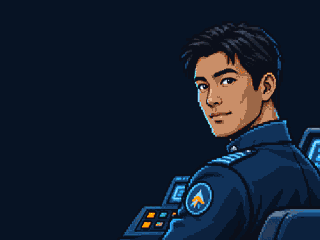
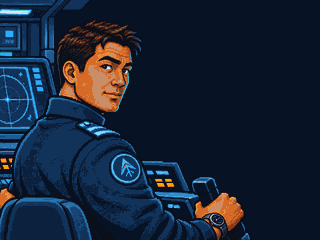
Crew scenes: Marcus (new), Chief Doyle, Lt. Washington; text box placements right-short and bottom
Claude-Session: https://claude.ai/code/session_01QsU1qWh9Lm4CoQ2smq7FHb

diff --git a/tablet/js/art.js b/tablet/js/art.js
@@ -29,7 +29,7 @@ export function artImg(name) {
 // Like the rooms: the owner's original (smooth) and a 64x64 palette copy (Display > Pictures > Retro). Keyed by crew id (data/contacts.json).
 export const PORTRAITS = {
   communications: { original: 'retro/assets/crew/communications_original.jpg', retro: 'retro/assets/crew/communications.png' },   // Nicole Brooks
-  ...Object.fromEntries(['helm', 'executiveOfficer', 'science'].map((id) => [id, { original: `retro/assets/crew/${id}_original.jpg`, retro: `retro/assets/crew/${id}.png` }])),   // Marcus, ARIA, Dr. Patel (tools/crew_art.py)
+  ...Object.fromEntries(['helm', 'executiveOfficer', 'science', 'engineering', 'security'].map((id) => [id, { original: `retro/assets/crew/${id}_original.jpg`, retro: `retro/assets/crew/${id}.png` }])),   // Marcus, ARIA, Dr. Patel, Chief Doyle, Lt. Washington (tools/crew_art.py)
 };
 /** One <img> per picture and class, made once and reused (it follows the Pictures setting; no new listener on every redraw). */
 const pics = new Map();
@@ -50,9 +50,10 @@ export const portrait = (id, cls = 'portrait') => pic(PORTRAITS, id, cls);
 // fills the 4:3 box and a text box on the empty side carries what they say and the choices. Original and a 320x240 palette copy.
 export const SCENES = {
   communications: { original: 'retro/assets/crew/communications_scene_original.jpg', retro: 'retro/assets/crew/communications_scene.png' },   // Nicole at the comms station (a stand-in until the owner has the over-the-shoulder pose)
-  ...Object.fromEntries(['helm', 'executiveOfficer', 'science'].map((id) => [id, { original: `retro/assets/crew/${id}_scene_original.jpg`, retro: `retro/assets/crew/${id}_scene.png` }])),   // the owner's pictures, 2026-11-27
+  ...Object.fromEntries(['helm', 'executiveOfficer', 'science', 'engineering', 'security'].map((id) => [id, { original: `retro/assets/crew/${id}_scene_original.jpg`, retro: `retro/assets/crew/${id}_scene.png` }])),   // the owner's pictures, 2026-11-27
 };
-/** Where the text box goes on each scene picture: on the empty side. 'right' (default), 'left', or 'side-left' (narrow, beside a standing figure). */
-export const SCENE_BOX = { helm: 'left', science: 'side-left' };
+/** Where the text box goes on each scene picture: on the empty side. 'right' (default), 'left', 'side-left' (narrow, beside a standing figure),
+ *  'right-short' (right, stopping above a hand at the bottom) or 'bottom' (across the lower third, when the figure fills the middle). */
+export const SCENE_BOX = { helm: 'right-short', science: 'side-left', security: 'left', engineering: 'bottom' };
 /** A crew member's scene picture (or null). */
 export const scenePic = (id, cls = 'rd-pic') => pic(SCENES, id, cls);

diff --git a/tablet/tablet.css b/tablet/tablet.css
@@ -1066,3 +1066,9 @@ body.on-bridge .dock-status { background: rgba(3,14,24,.82); border-radius: 0 0 
 .keycap { pointer-events: none; } .keycap-t { width: 40px; height: 28px; display: flex; align-items: center; justify-content: center; font: 900 30px/1 var(--mono); color: #1a1204; }
 .tp-lamp { position: absolute; pointer-events: none; border-radius: 3px; background: transparent; }
 .tp-lamp.on { background: #64ffda; box-shadow: 0 0 10px #64ffda; }
+
+/* dialogue box placements for the crew scenes of 2026-11-27 (SCENE_BOX in art.js) */
+.rd.box-right-short .rd-box { bottom: 30%; }   /* Marcus: clear of his hand on the yoke */
+.rd.box-bottom .rd-box { left: 3%; right: 3%; top: 60%; bottom: 3%; display: grid; grid-template-columns: 1fr 1fr; grid-auto-rows: min-content; column-gap: 1.4rem; row-gap: 0; align-content: start; background: rgba(2, 10, 18, 0.9); }   /* Chief Doyle: across the lower third, the choices in two columns */
+.rd.box-bottom .rd-box > * { grid-column: 1 / -1; } .rd.box-bottom .rd-box > .comm-line { grid-column: auto; min-height: 2.2rem; }   /* the choices in two columns */
+.rd.box-bottom .rd-box > .comm-chips { display: grid; grid-template-columns: 1fr 1fr; column-gap: 1.4rem; }

diff --git a/tools/crew_art.py b/tools/crew_art.py
@@ -7,7 +7,7 @@ import os, sys, json
 from PIL import Image
 ROOT = os.path.dirname(os.path.dirname(os.path.abspath(__file__)))
 SRC, OUT = os.path.join(ROOT, 'art_src', 'crew'), os.path.join(ROOT, 'tablet', 'retro', 'assets', 'crew')
-FACE = { 'helm': (800, 80, 540), 'executiveOfficer': (60, 120, 720), 'science': (560, 20, 300) }
+FACE = { 'helm': (330, 110, 400), 'executiveOfficer': (60, 120, 720), 'science': (560, 20, 300), 'engineering': (560, 60, 380), 'security': (920, 40, 360) }   # helm: the over-the-shoulder picture of 2026-11-27 (the first one is helm_scene_v1.png)
 def snap(img):
     d = json.load(open(os.path.join(ROOT, 'data', 'palette.json'))); c = d if isinstance(d, list) else d.get('colors', d)
     pal = [tuple(int(h[i:i + 2], 16) for i in (1, 3, 5)) for h in c]; flat = [v for p in pal for v in p]; flat += flat[:3] * (256 - len(pal))

diff --git a/docs/HANDOFF.md b/docs/HANDOFF.md
@@ -1,6 +1,6 @@
 # Handoff (read this first when a session starts; update it before parking)
 
-Last updated: 2026-11-27. Branch to work on: `tablet`. Repo: NickWest27/AquaNova (GitHub Pages path `/AquaNova/`). Last change: desk pads are banks of five (range buttons gone, the yellow keys do range; SNR contact buttons Scan, Probe, Clear moved to the right pad, Investigate renamed Probe; the Sensors station keeps its own − RANGE +). Open: the left pad still has six pages (TAC is a stub). Before that bridge desk (owner, 2026-11-27): the three desk pads are warped to the slant of their holes; DSP moved from the right pad to the round trackpad (lamp lit while on); the two yellow keys left of the centre display are RANGE + / − with the signs printed on; the overhead panel carries the status (position, date, time, BAT) and the screen-edge strip is hidden on the bridge; before that sound board in the PED (Settings > Sound > Sound board opens it full screen over the game; the buttons live in `tablet/js/soundboardKit.js`, shared with the stand-alone page `tablet/soundboard.html`, published at `.../AquaNova/tablet/tablet/soundboard.html`: note the double `tablet`); before that sound board for the owner (every sound in sfx.js and the theme on a button, rename and Copy names); before that NEW BRIDGE FRAME (the owner's picture of 2026-11-27, 1024x765, holes cut from its painted checkerboard; source `art_src/rooms/bridge_original.png`, colour-matched by `tools/even_palette.py`, Retro copy snapped from it). Marcus at the centre helm (tap him to talk; his left monitor opens the Helm station; his two small monitors show heading/speed and depth/floor), Nicole left, Alex right. The three desk pads are one row each: HLM's depth and cruise buttons moved to the right pad. The status strip moves to the top on the bridge (`body.on-bridge`). Walkway exit: bottom-left corner. Before that: 16-bit sound effects library (`tablet/js/sfx.js`, 32 sounds; previews `docs/audio/sfx/`, reel `docs/audio/sfx_reel.mp3` + `.txt`, rendered by `tools/render_sfx.py`; Effects slider in PED Settings). Wired: general alarm, impact/crash, fire and flooding alarms, super cruise power-up and engage, emergency blow, sonar sweep ping, doors between rooms, the engine room loop, radio squelch when the communicator opens; before that short crew lines show as notices on the bridge's overhead console (two lines, whole panel); ARIA's hints wait at least a minute; bigger overhead and nav log text; the vertical profile uses the nav screen's colours (warning yellow and red kept); before that every crew message opens the dialogue (hints, reports, objective lines); only the reply to a button press (`tell()`) and action ticks stay a short line at the foot of the screen (notify.js); before that main title "Beneath the Waves" (original, 16-bit style, `tablet/js/theme.js`; PED Settings > Play theme; render with `tools/render_theme.py` to `docs/audio/aqua_nova_theme.mp3`); before that the communicator never replaces what the Captain is reading: new lines wait behind "Continue" (crew.js readTo); before that fixed Restart from the beginning (a new game was no longer recognised because 'pick up the communicator' now starts as waiting; `commsLocked` in app.js; test `tools/restart_test.py`); before that no discovery notes in the logbook (arrivals to the PED Journal, records to PED Findings); before that one task at a time (objective status 'waiting' until the step before is done; follow-on missions start after a short saved pause; the PED shows done steps, the current one and how many are to come); super cruise spools up for 8 s and eases in and out, any other power setting drops it; Route editor Edit button and a degrees-and-minutes read-back in the waypoint dialog; the trials escort (OERA Seaward, CGC Vigilant) on AIS; the 300 m depth is a certification step (story bible); before that route planner fix (trips over about 120 nm fell off the search grid and were reported as blocked: `route.js` now grows its cells on long trips; test in `tools/route_test.mjs`); the commissioning orders give the AO's centre point, not its corners; before that walkway A1, walkway AN-1 and medbay back to the colour-matched pictures (a pixel-art rebuild by filter looked smudged; they need redrawing to be as crisp as the launch bay); stray speckles removed from the Retro copies; BRIDGE sign on A1 drawn by the game; before that rooms open with the story and crew join the communicator when their room is visited (`rooms.js`, see `docs/COMMS_AND_PROGRESSION.md`); ARIA's bridge introduction; before that crew renamed (Lt. Andre Washington for security, Chief Engineer Ryan Doyle; see `docs/STORY_BIBLE.md`); the Captain's lines in the communicator are conversational (`SAY` in `stations/crew.js`); Call another station; Take me to my quarters removed; before that communicator menu tidied and First Contact completes on ARIA's introduction (see `docs/HELM_AND_ORDERS.md`); before that portraits and dialogue screens for Marcus, ARIA and Dr. Patel (`tools/crew_art.py`, sources in `art_src/crew/`; text box side per picture: `SCENE_BOX` in art.js); before that room pictures evened out to the Engineering picture's brightness and colour (`tools/even_palette.py`; the untouched originals are in `art_src/rooms/`, outside the served folders: a new room picture goes there first, then run the script, which also remakes the Retro copies); bigger crew tap areas on the bridge; before that the owner's testing list (below, all 18 items); before that the quarters wall screen cycles NAV, synthetic vision, sonar, WSKRs and ship status (`quartersScreen.js`, tap = next page, 10 s each; test `tools/quarters_screen_test.py`); pushing the trials for records with a risk of light damage (`trials.js`); story bible brought up to date; before that Sea Trials became the commissioning trip to the Trials AO (welcome letter in the logbook, commissioning orders by mail, Welcome to the AO mail; nav, eng and super cruise commissioned in steps; see the tutorial table in `docs/COMMS_AND_PROGRESSION.md`); before that the owner's welcome letter in the logbook; before that general alarm (ARIA order + engineering button; red lighting and frames; faster fire/flood response if sounded first; see `docs/ENGINEERING.md`); before that the Engineering room shows the ship's state (core glow amber/red, live console screens, red alarm for fire/flooding; see `docs/ENGINEERING.md`); before that the engineering computer; before that the 90s dialogue screen for Nicole; before that Nicole's portrait; before that walkway AN-1 and Engineering on the owner's pictures (every room is now 4:3); before that site survey (`survey.js`, Survey site on SONAR, Seabed survey missions) and the XO tends Remora before getting under way; before that Remora's tether parts past its length, the Tern fetches her (`tools/tether_test.py`); before that PED, communicator and corner buttons in the 4:3 box; before that Launch Bay as instruments, WSKRs have their own launch bays, standard target readout (`readout.js`), Full sweep 36 s; before that station pages are a 4:3 page (1024 x 768) scaled like the stage; before that pages fit the screen (`tools/fit_test.py`) and Sensors has SONAR and WSKRs only; before that contact tracking (detection chance, names belong to tracks, probable matches, signatures on file: `docs/CONTACT_TRACKING.md`); before that identified ships saved; before that one zoom direction everywhere ("+" zooms in) and round map zoom buttons; before that the bridge original picture with real transparent holes; before that the medbay on the owner's picture (after bridge, walkway A1, quarters, science lab, launch bay).
+Last updated: 2026-11-27. Branch to work on: `tablet`. Repo: NickWest27/AquaNova (GitHub Pages path `/AquaNova/`). Last change: new crew scene pictures (Marcus over the shoulder, replacing the first one, kept as `art_src/crew/helm_scene_v1.png`; Chief Doyle; Lt. Washington), made by `tools/crew_art.py`; text box per picture in `SCENE_BOX` (Marcus right but short of his hand, Washington left, Doyle across the bottom with the choices in two columns). Before that desk pads are banks of five (range buttons gone, the yellow keys do range; SNR contact buttons Scan, Probe, Clear moved to the right pad, Investigate renamed Probe; the Sensors station keeps its own − RANGE +). Open: the left pad still has six pages (TAC is a stub). Before that bridge desk (owner, 2026-11-27): the three desk pads are warped to the slant of their holes; DSP moved from the right pad to the round trackpad (lamp lit while on); the two yellow keys left of the centre display are RANGE + / − with the signs printed on; the overhead panel carries the status (position, date, time, BAT) and the screen-edge strip is hidden on the bridge; before that sound board in the PED (Settings > Sound > Sound board opens it full screen over the game; the buttons live in `tablet/js/soundboardKit.js`, shared with the stand-alone page `tablet/soundboard.html`, published at `.../AquaNova/tablet/tablet/soundboard.html`: note the double `tablet`); before that sound board for the owner (every sound in sfx.js and the theme on a button, rename and Copy names); before that NEW BRIDGE FRAME (the owner's picture of 2026-11-27, 1024x765, holes cut from its painted checkerboard; source `art_src/rooms/bridge_original.png`, colour-matched by `tools/even_palette.py`, Retro copy snapped from it). Marcus at the centre helm (tap him to talk; his left monitor opens the Helm station; his two small monitors show heading/speed and depth/floor), Nicole left, Alex right. The three desk pads are one row each: HLM's depth and cruise buttons moved to the right pad. The status strip moves to the top on the bridge (`body.on-bridge`). Walkway exit: bottom-left corner. Before that: 16-bit sound effects library (`tablet/js/sfx.js`, 32 sounds; previews `docs/audio/sfx/`, reel `docs/audio/sfx_reel.mp3` + `.txt`, rendered by `tools/render_sfx.py`; Effects slider in PED Settings). Wired: general alarm, impact/crash, fire and flooding alarms, super cruise power-up and engage, emergency blow, sonar sweep ping, doors between rooms, the engine room loop, radio squelch when the communicator opens; before that short crew lines show as notices on the bridge's overhead console (two lines, whole panel); ARIA's hints wait at least a minute; bigger overhead and nav log text; the vertical profile uses the nav screen's colours (warning yellow and red kept); before that every crew message opens the dialogue (hints, reports, objective lines); only the reply to a button press (`tell()`) and action ticks stay a short line at the foot of the screen (notify.js); before that main title "Beneath the Waves" (original, 16-bit style, `tablet/js/theme.js`; PED Settings > Play theme; render with `tools/render_theme.py` to `docs/audio/aqua_nova_theme.mp3`); before that the communicator never replaces what the Captain is reading: new lines wait behind "Continue" (crew.js readTo); before that fixed Restart from the beginning (a new game was no longer recognised because 'pick up the communicator' now starts as waiting; `commsLocked` in app.js; test `tools/restart_test.py`); before that no discovery notes in the logbook (arrivals to the PED Journal, records to PED Findings); before that one task at a time (objective status 'waiting' until the step before is done; follow-on missions start after a short saved pause; the PED shows done steps, the current one and how many are to come); super cruise spools up for 8 s and eases in and out, any other power setting drops it; Route editor Edit button and a degrees-and-minutes read-back in the waypoint dialog; the trials escort (OERA Seaward, CGC Vigilant) on AIS; the 300 m depth is a certification step (story bible); before that route planner fix (trips over about 120 nm fell off the search grid and were reported as blocked: `route.js` now grows its cells on long trips; test in `tools/route_test.mjs`); the commissioning orders give the AO's centre point, not its corners; before that walkway A1, walkway AN-1 and medbay back to the colour-matched pictures (a pixel-art rebuild by filter looked smudged; they need redrawing to be as crisp as the launch bay); stray speckles removed from the Retro copies; BRIDGE sign on A1 drawn by the game; before that rooms open with the story and crew join the communicator when their room is visited (`rooms.js`, see `docs/COMMS_AND_PROGRESSION.md`); ARIA's bridge introduction; before that crew renamed (Lt. Andre Washington for security, Chief Engineer Ryan Doyle; see `docs/STORY_BIBLE.md`); the Captain's lines in the communicator are conversational (`SAY` in `stations/crew.js`); Call another station; Take me to my quarters removed; before that communicator menu tidied and First Contact completes on ARIA's introduction (see `docs/HELM_AND_ORDERS.md`); before that portraits and dialogue screens for Marcus, ARIA and Dr. Patel (`tools/crew_art.py`, sources in `art_src/crew/`; text box side per picture: `SCENE_BOX` in art.js); before that room pictures evened out to the Engineering picture's brightness and colour (`tools/even_palette.py`; the untouched originals are in `art_src/rooms/`, outside the served folders: a new room picture goes there first, then run the script, which also remakes the Retro copies); bigger crew tap areas on the bridge; before that the owner's testing list (below, all 18 items); before that the quarters wall screen cycles NAV, synthetic vision, sonar, WSKRs and ship status (`quartersScreen.js`, tap = next page, 10 s each; test `tools/quarters_screen_test.py`); pushing the trials for records with a risk of light damage (`trials.js`); story bible brought up to date; before that Sea Trials became the commissioning trip to the Trials AO (welcome letter in the logbook, commissioning orders by mail, Welcome to the AO mail; nav, eng and super cruise commissioned in steps; see the tutorial table in `docs/COMMS_AND_PROGRESSION.md`); before that the owner's welcome letter in the logbook; before that general alarm (ARIA order + engineering button; red lighting and frames; faster fire/flood response if sounded first; see `docs/ENGINEERING.md`); before that the Engineering room shows the ship's state (core glow amber/red, live console screens, red alarm for fire/flooding; see `docs/ENGINEERING.md`); before that the engineering computer; before that the 90s dialogue screen for Nicole; before that Nicole's portrait; before that walkway AN-1 and Engineering on the owner's pictures (every room is now 4:3); before that site survey (`survey.js`, Survey site on SONAR, Seabed survey missions) and the XO tends Remora before getting under way; before that Remora's tether parts past its length, the Tern fetches her (`tools/tether_test.py`); before that PED, communicator and corner buttons in the 4:3 box; before that Launch Bay as instruments, WSKRs have their own launch bays, standard target readout (`readout.js`), Full sweep 36 s; before that station pages are a 4:3 page (1024 x 768) scaled like the stage; before that pages fit the screen (`tools/fit_test.py`) and Sensors has SONAR and WSKRs only; before that contact tracking (detection chance, names belong to tracks, probable matches, signatures on file: `docs/CONTACT_TRACKING.md`); before that identified ships saved; before that one zoom direction everywhere ("+" zooms in) and round map zoom buttons; before that the bridge original picture with real transparent holes; before that the medbay on the owner's picture (after bridge, walkway A1, quarters, science lab, launch bay).
 
 ## Owner's testing list (2026-11-26): all done 2026-11-27, waiting for the owner to test on the iPad
 Rooms and signs

diff --git a/docs/STORY_BIBLE.md b/docs/STORY_BIBLE.md
@@ -45,10 +45,12 @@ The Aqua Nova is advanced enough that the nations behind O.E.R.A. will not let h
 
 - **Appearance** (portraits in `tablet/retro/assets/crew/`, sources in `art_src/crew/`; one look per person, keep new art to it):
   - ARIA: no body. A glowing blue holographic brain of linked nodes over a projector ring.
-  - Marcus Chen: short dark hair, warm brown skin, a calm half-smile; seen over his shoulder at the helm console, navy uniform with the ship's patch.
+  - Marcus Chen (picture of 2026-11-27): mid-thirties, short dark-brown hair, warm brown skin, a dry half-smile and one raised eyebrow; over the shoulder at the helm, hand on the yoke, an old dive watch; navy uniform with the ship's patch.
   - Dr. Samira Patel: long dark curly hair tied back, white lab coat over the navy uniform; in the lab with a tablet and a sample tube.
   - Nicole Brooks: at the comms station (a stand-in picture; the owner wants an over-the-shoulder pose like Marcus).
-  - Still to draw: Alex Torres; Ryan Doyle (red-brown hair, freckles, sleeves rolled, grease on the hands, fifties); Andre Washington (very tall and broad, close-cropped hair, tattooed forearms, the uniform a size too small at the shoulders).
+  - Ryan Doyle (picture of 2026-11-27): early fifties, red-brown hair going grey, freckled ruddy face, a pencil behind his ear, coveralls with the sleeves rolled, a red rag in his back pocket, a Saint Christopher medal; one hand on the reactor casing; behind him a wrench taped to the bulkhead, "DO NOT TOUCH. LUCKY."
+  - Andre Washington (picture of 2026-11-27): about forty, very tall and broad, close-cropped greying hair, short beard; arms folded, the Corps emblem on the right forearm, a column of names and the daughter's anchor-whale on the left; in the launch bay with the Tern behind him.
+  - Still to draw: Alex Torres (about thirty, lean, a little round-shouldered from the sonar shack, short black hair flattened by the headset he never takes off, olive skin, dark steady half-closed eyes, sleeves pushed up, an old Navy sonar-tech pin on the collar; over the shoulder at the sensors console, hand on a volume knob, mid-listen).
 
 - **Where they work** (the Captain meets them there, then can call them): bridge = Marcus (helm), Nicole (comms, left console), Alex (sensors, right console; may move to a sonar room off the bridge if Marcus takes the right console); launch bay = Lt. Washington; science lab and sick bay = Dr. Patel; engineering = Chief Doyle; ARIA everywhere.
 
